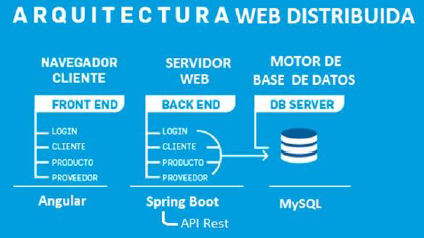
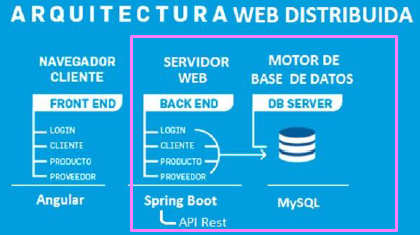
update README file

diff --git a/README.md b/README.md
@@ -57,11 +57,19 @@ Se trata de una API REST realizada utilizando las tecnologías Java + Spring Boo
 
 <p align="right">( <a href="#readme-top"> ▲ </a> )</p>
 
-<b>Diagrama Entidad - Relación (DER)</b> de base de datos:
+<b>Diagrama Entidad - Relación (DER)</b> de la base de datos del **back end**:
+
+<div align="center" >
+
+  ![Arquitectura Web del Portfolio](src/assets/arquitectura-web.png)
+
+<i> ∆ nota: en este repositorio se encuentra desarrollada la parte resaltada</i>
 
   ![Diagrama Entidad Relación](/src/assets/DER.png)
 
-  ![Arquitectura Web del Portfolio](src/assets/arquitectura-web.png)
+  <i> ∆ nota: este diagrama lo realice inicialmente como parte de los desafios de modulo propuestos por el propgrama, mas adelante agregue los campos "email" y  "password" a la tabla "person" para crear los métodos de login.</i>
+
+</div>
 
 > Para ver el **script** del back end del portfolio dirigirse a:
 > <a href="https://github.com/hebelia/front-end/blob/main/src/assets/img/portfolio-script.sql" target="_blank"> <br /> :link: Script </a></i>
@@ -117,7 +125,4 @@ hebeliaromeu@gmail.com
 
 [der-url]:https://ibb.co/VB981Bw
 
-[portfolio-pc]:
-[portfolio-mobile]:
-[prtfolio-pc-admin]:
-[portfolio-mobile-admin]:
+
